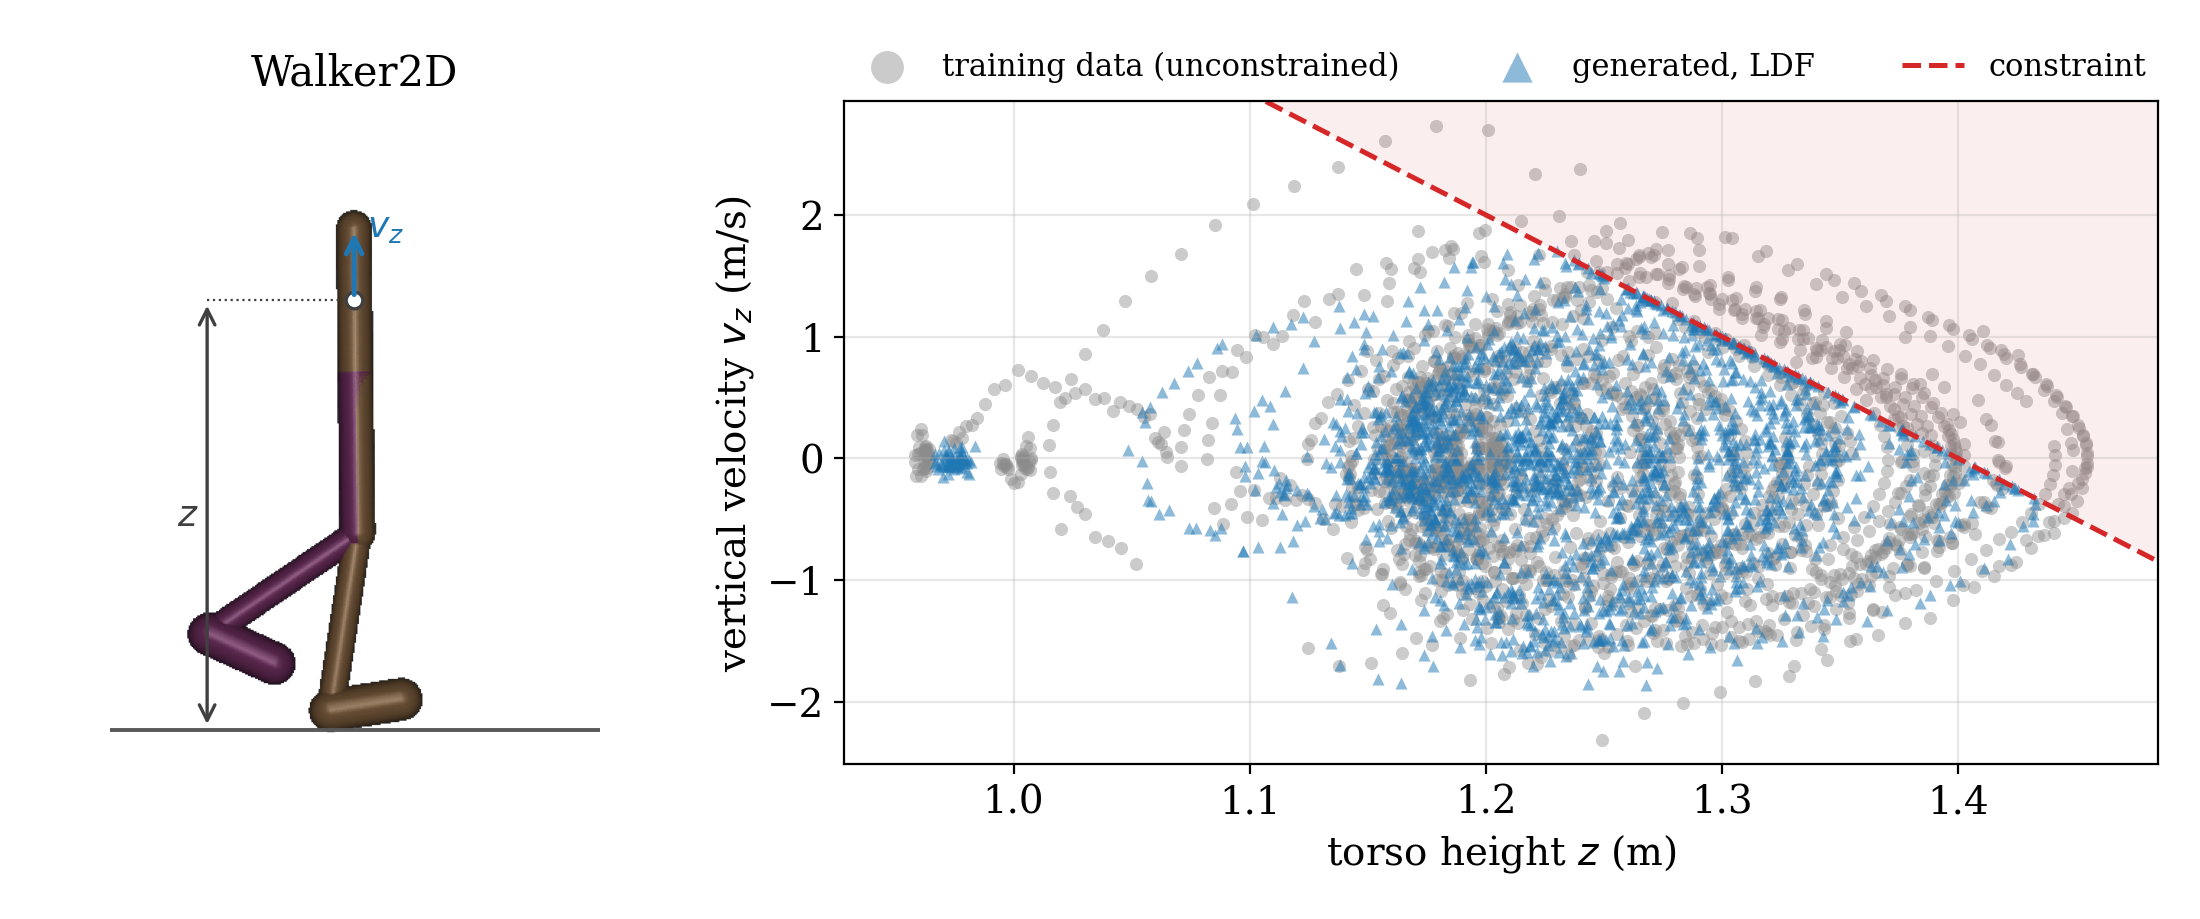
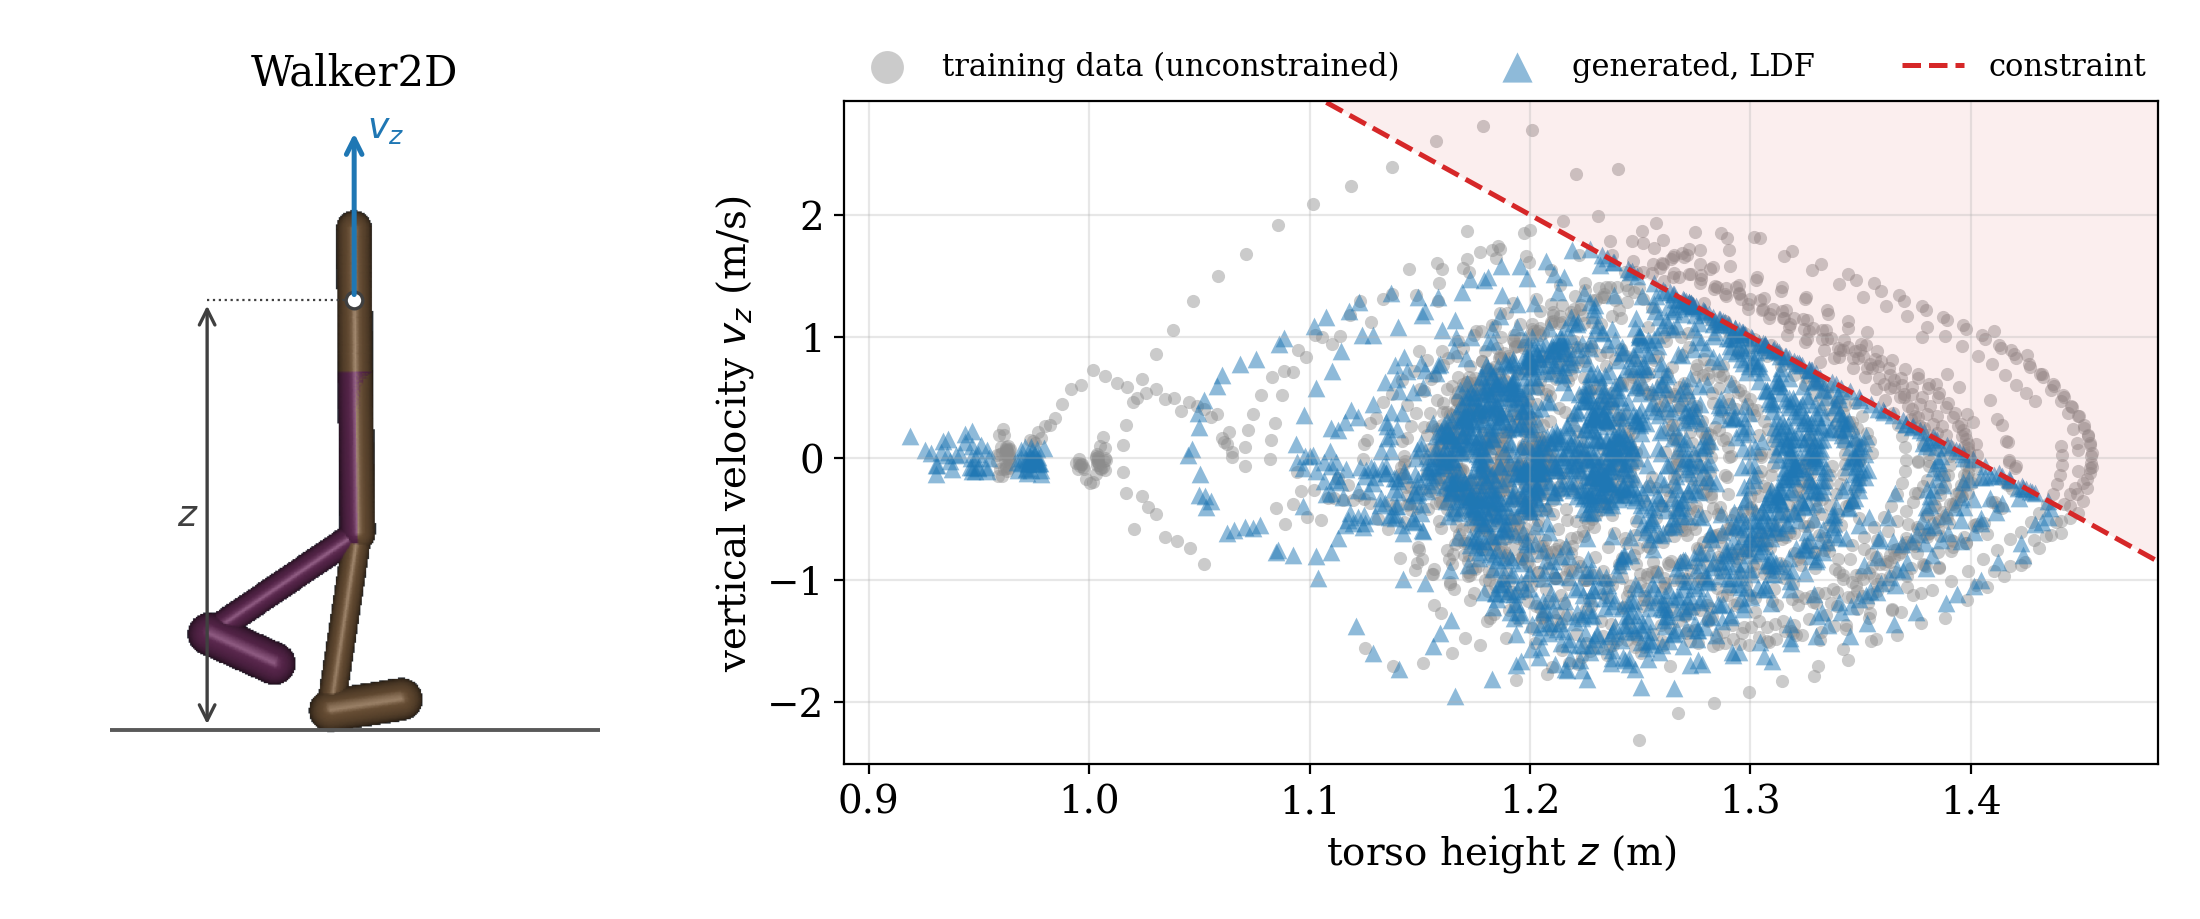
Match Table 1 and figure formatting to the arXiv paper
- Export plots/table1.tex as the paper's complete table* float
  (resizebox, caption, vspace, label) so it pastes into the source.
  Header citations are commented out as in the paper, and DPS now
  cites the paper's bib key chung2023dps. The caption adds a line for
  the "failed" cells.
- Restore the standalone locomotion figure style used in the paper:
  generated markers at 2.9x point size with compact legend handles,
  and a v_z arrow at 0.26 of the panel height. The overview figure
  keeps the smaller markers, as in the paper.
- Regenerate all paper figures from the current checkpoints.
- Test that the exported float keeps the paper's layout.

Claude-Session: https://claude.ai/code/session_01X2HQFQgsToYvSRicP9o1vh

diff --git a/cfm/sweep.py b/cfm/sweep.py
@@ -349,17 +349,19 @@ def render_table(records, fmt: str = "markdown") -> str:
     return "\n".join(lines)
 
 
-# (row name, header) for the LaTeX columns. Unlisted rows are appended.
+# (variant, header, citation key) for the LaTeX columns; unlisted variants
+# are appended. The paper keeps the citations as
+# LaTeX comments so the headers stay short.
 LATEX_COLUMNS = [
-    ("penalty", "Penalty only"),
-    ("time_varying_penalty", "Time-varying penalty"),
-    ("cbf", r"CBF~\cite{safeflow2025}"),
-    ("pcfm", r"PCFM~\cite{utkarsh2025pcfm}"),
-    ("pigdm", r"$\Pi$GDM~\cite{pokle2024training}"),
-    ("opc", r"OPC~\cite{peng2024improving}"),
-    ("dps", r"DPS~\cite{chung2023diffusion}"),
-    ("ldf", "LDF (no proj.)"),
-    ("ldf_projected", "LDF + proj."),
+    ("penalty", "Penalty only", None),
+    ("time_varying_penalty", "Time-varying penalty", None),
+    ("cbf", "CBF", "safeflow2025"),
+    ("pcfm", "PCFM", "utkarsh2025pcfm"),
+    ("pigdm", r"$\Pi$GDM", "pokle2024training"),
+    ("opc", "OPC", "peng2024improving"),
+    ("dps", "DPS", "chung2023dps"),
+    ("ldf", "LDF (no proj.)", None),
+    ("ldf_projected", "LDF + proj.", None),
 ]
 
 # Bold times are within this factor of the fastest in their row; bold
@@ -413,11 +415,11 @@ def render_latex_table(records) -> str:
         cells[row][column] = r
 
     columns = list(LATEX_COLUMNS)
-    known = {name for name, _ in columns}
+    known = {name for name, _, _ in columns}
     for per_row in cells.values():
         for name, r in per_row.items():
             if name not in known:
-                columns.append((name, r["method_label"]))
+                columns.append((name, r["method_label"], None))
                 known.add(name)
 
     order = list(problems.all_problems())
@@ -432,9 +434,13 @@ def render_latex_table(records) -> str:
                 "no Steps column, so keep one resolution per scenario"
             )
 
-    groups = "\n".join(
-        f"& \\multicolumn{{2}}{{c}}{{{header}}}" for _, header in columns
-    )
+    def group(header, cite):
+        if cite is None:
+            return f"& \\multicolumn{{2}}{{c}}{{{header}}}"
+        return (f"& \\multicolumn{{2}}{{c}}{{{header}\n"
+                f"% ~\\citep{{{cite}}}\n}}")
+
+    groups = "\n".join(group(header, cite) for _, header, cite in columns)
     rules = "".join(
         f"\\cmidrule(lr){{{2 + 2 * i}-{3 + 2 * i}}}"
         for i in range(len(columns))
@@ -457,7 +463,7 @@ def render_latex_table(records) -> str:
              if math.isfinite(r["mean_violation"])), default=math.inf,
         )
         out = [row[2]]
-        for name, _ in columns:
+        for name, _, _ in columns:
             r = per_row.get(name)
             if r is None:
                 out += ["---", "---"]
@@ -473,6 +479,47 @@ def render_latex_table(records) -> str:
 
     lines += [r"\bottomrule", r"\end{tabular}"]
     return "\n".join(lines)
+
+
+# The paper's Table 1 caption, extended for the added baselines.
+LATEX_CAPTION = "\n".join([
+    "Mean per-sample generation time (ms) and constraint violation across "
+    "{num_samples} samples.",
+    r"Violation is $\norm{{g(x_1)}}$ for equality-constrained problems "
+    "(top) and",
+    r"$\norm{{\relu(h(x_1))}}$ for inequality-constrained problems (bottom).",
+    r"Bold times are within {time_percent}\% of the lowest time in that "
+    r"row; bold violations are below $10^{{{threshold_exponent}}}$",
+    "(near machine precision for single-precision float).",
+    r"$^\dagger$At least one NaN error produced during generation; "
+    "average shown is across non-NaN samples.",
+    r"\textit{{failed}}: every sample produced a NaN error; such methods "
+    "are excluded from the bold-time comparison.",
+])
+
+
+def render_latex_float(records, num_samples: int) -> str:
+    r"""Wrap :func:`render_latex_table` in the paper's ``table*`` float.
+
+    The output pastes into the paper as is; it uses the paper's ``\sci``,
+    ``\scib``, ``\norm`` and ``\relu`` macros and ``booktabs``.
+    """
+    caption = LATEX_CAPTION.format(
+        num_samples=num_samples,
+        time_percent=round(100 * (LATEX_TIME_FACTOR - 1)),
+        threshold_exponent=round(math.log10(LATEX_VIOLATION_THRESHOLD)),
+    )
+    return "\n".join([
+        r"\begin{table*}[t]",
+        r"\centering",
+        r"\resizebox{\textwidth}{!}{%",
+        render_latex_table(records),
+        "}",
+        rf"\caption{{{caption}}}",
+        r"\vspace{-1.05em}",
+        r"\label{tab:generation_times}",
+        r"\end{table*}",
+    ])
 
 
 def _ran_the_baseline_scenario(record, want) -> bool:

diff --git a/plots.py b/plots.py
@@ -1040,10 +1040,19 @@ def plot_obstacle_comparison(
 POSE_PIXELS = (340, 460)
 POSE_EXTENT = 1.85
 POSE_CAMERA_Z = 0.83
+# v_z arrow length in the standalone figures, as a fraction of panel height.
+POSE_VZ_LENGTH = 0.26
 
 # Distinct markers so the clouds survive greyscale printing.
 TRAINING_STYLE = dict(marker="o", c="0.55", alpha=0.45, lw=0)
 GENERATED_STYLE = dict(marker="^", c="C0", alpha=0.5, lw=0)
+# Marker areas relative to ``point_size`` in the locomotion phase panels.
+# The standalone figures draw generated samples larger; their legends keep
+# the compact handles.
+TRAINING_SIZE = 1.6
+GENERATED_SIZE = 1.35
+STANDALONE_GENERATED_SIZE = 2.9
+LEGEND_MARKERSCALE = 2.5
 
 
 def _locomotion_samples(env, height_limit, phi, num_samples, seed, dt):
@@ -1101,7 +1110,7 @@ def _pose_frame(renderer, spec, reference, num_windows=64):
 
 
 def _draw_pose_panel(ax, renderer, frame, torso_z, label, fontsize=13,
-                     vz_length=0.11):
+                     vz_length=None):
     """The robot with ``z`` and ``v_z`` marked on it.
 
     ``vz_length`` is the ``v_z`` arrow length as a fraction of panel height.
@@ -1129,6 +1138,8 @@ def _draw_pose_panel(ax, renderer, frame, torso_z, label, fontsize=13,
             color="0.25", lw=0.8, ls=":")
     ax.plot(torso_col, torso_row, "o", ms=6, mfc="white", mec="0.25",
             mew=1.2, zorder=3)
+    if vz_length is None:
+        vz_length = POSE_VZ_LENGTH
     tip = torso_row - vz_length * renderer.height
     ax.annotate(
         "", xy=(torso_col, tip), xytext=(torso_col, torso_row),
@@ -1145,7 +1156,8 @@ def _draw_pose_panel(ax, renderer, frame, torso_z, label, fontsize=13,
         ax.set_title(label, fontsize=15)
 
 
-def _draw_phase_panel(ax, spec, data, point_size, legend=True):
+def _draw_phase_panel(ax, spec, data, point_size, legend=True,
+                      generated_size=GENERATED_SIZE):
     """The (z, v_z) cloud, training behind and constrained samples on top."""
     from problems.locomotion import PLOT_WINDOWS
 
@@ -1157,10 +1169,10 @@ def _draw_phase_panel(ax, spec, data, point_size, legend=True):
     z_gen = generated[..., spec.z_index].ravel()
     vz_gen = generated[..., spec.vz_index].ravel()
 
-    ax.scatter(z_ref, vz_ref, s=point_size * 1.6,
+    ax.scatter(z_ref, vz_ref, s=point_size * TRAINING_SIZE,
                label="training data (unconstrained)", **TRAINING_STYLE)
-    ax.scatter(z_gen, vz_gen, s=point_size * 1.35, label="generated, LDF",
-               **GENERATED_STYLE)
+    ax.scatter(z_gen, vz_gen, s=point_size * generated_size,
+               label="generated, LDF", **GENERATED_STYLE)
 
     ax.set_xlim(
         min(z_ref.min(), z_gen.min()) - 0.03,
@@ -1184,11 +1196,14 @@ def _draw_phase_panel(ax, spec, data, point_size, legend=True):
     ax.grid(alpha=0.3)
     if not legend:
         return
-    ax.legend(
+    handles = ax.legend(
         loc="lower left", bbox_to_anchor=(0.0, 1.01, 1.0, 0.1), mode="expand",
-        ncols=3, fontsize=11, frameon=False, markerscale=2.5,
+        ncols=3, fontsize=11, frameon=False, markerscale=LEGEND_MARKERSCALE,
         borderaxespad=0.0,
-    )
+    ).legend_handles
+    # Legend markers do not grow with the scatter markers.
+    for handle, size in zip(handles, (TRAINING_SIZE, GENERATED_SIZE)):
+        handle.set_sizes([point_size * size * LEGEND_MARKERSCALE ** 2])
 
 
 def plot_locomotion_phase(
@@ -1234,7 +1249,8 @@ def plot_locomotion_phase(
             gridspec_kw={"width_ratios": (1.0, 2.1)},
         )
         _draw_pose_panel(axes[0], renderer, frame, torso_z, spec.label)
-        _draw_phase_panel(axes[1], spec, data, point_size)
+        _draw_phase_panel(axes[1], spec, data, point_size,
+                          generated_size=STANDALONE_GENERATED_SIZE)
         fig.tight_layout()
         out = FIG_DIR / f"locomotion_{env}.png"
         fig.savefig(out, dpi=200)

diff --git a/plots/table1.tex b/plots/table1.tex
@@ -1,13 +1,26 @@
 % Local timings; see plots/data/table1.json for provenance.
+\begin{table*}[t]
+\centering
+\resizebox{\textwidth}{!}{%
 \begin{tabular}{lcccccccccccccccccc}
 \toprule
 & \multicolumn{2}{c}{Penalty only}
 & \multicolumn{2}{c}{Time-varying penalty}
-& \multicolumn{2}{c}{CBF~\cite{safeflow2025}}
-& \multicolumn{2}{c}{PCFM~\cite{utkarsh2025pcfm}}
-& \multicolumn{2}{c}{$\Pi$GDM~\cite{pokle2024training}}
-& \multicolumn{2}{c}{OPC~\cite{peng2024improving}}
-& \multicolumn{2}{c}{DPS~\cite{chung2023diffusion}}
+& \multicolumn{2}{c}{CBF
+% ~\citep{safeflow2025}
+}
+& \multicolumn{2}{c}{PCFM
+% ~\citep{utkarsh2025pcfm}
+}
+& \multicolumn{2}{c}{$\Pi$GDM
+% ~\citep{pokle2024training}
+}
+& \multicolumn{2}{c}{OPC
+% ~\citep{peng2024improving}
+}
+& \multicolumn{2}{c}{DPS
+% ~\citep{chung2023dps}
+}
 & \multicolumn{2}{c}{LDF (no proj.)}
 & \multicolumn{2}{c}{LDF + proj.} \\
 \cmidrule(lr){2-3}\cmidrule(lr){4-5}\cmidrule(lr){6-7}\cmidrule(lr){8-9}\cmidrule(lr){10-11}\cmidrule(lr){12-13}\cmidrule(lr){14-15}\cmidrule(lr){16-17}\cmidrule(lr){18-19}
@@ -23,3 +36,14 @@ Walker2D & \textbf{82.3} & \sci{7.3}{-3} & \textbf{80.7} & \sci{9.1}{-2} & 6495.
 Hopper & \textbf{81.3} & \sci{5.5}{-3} & \textbf{79.6} & \sci{2.1}{-1} & 3648.5 & \textbf{0} & --- & --- & --- & --- & --- & --- & --- & --- & \textbf{81.4} & \sci{7.1}{-4} & \textbf{81.4} & \scib{1.2}{-8} \\
 \bottomrule
 \end{tabular}
+}
+\caption{Mean per-sample generation time (ms) and constraint violation across 20 samples.
+Violation is $\norm{g(x_1)}$ for equality-constrained problems (top) and
+$\norm{\relu(h(x_1))}$ for inequality-constrained problems (bottom).
+Bold times are within 20\% of the lowest time in that row; bold violations are below $10^{-6}$
+(near machine precision for single-precision float).
+$^\dagger$At least one NaN error produced during generation; average shown is across non-NaN samples.
+\textit{failed}: every sample produced a NaN error; such methods are excluded from the bold-time comparison.}
+\vspace{-1.05em}
+\label{tab:generation_times}
+\end{table*}

diff --git a/tests/test_sweep_config.py b/tests/test_sweep_config.py
@@ -1,6 +1,7 @@
 """Sweep config expansion, baseline comparison, and LaTeX table rendering."""
 
 import json
+import re
 
 import pytest
 
@@ -268,3 +269,23 @@ def test_latex_table_refuses_two_results_for_one_cell():
     records = [_table_record("ldf", 1.0, 1e-2), _table_record("ldf", 2.0, 1e-2)]
     with pytest.raises(ValueError, match="stale"):
         sweep.render_latex_table(records)
+
+
+def test_latex_float_matches_the_paper_layout():
+    """The export pastes into the paper: same float, macros, and caption."""
+    records = [_table_record("ldf", 7.7, 2.6e-3),
+               _table_record("pcfm", 29.6, 4.5e-8)]
+    text = sweep.render_latex_float(records, num_samples=20)
+    lines = text.splitlines()
+    assert lines[:3] == [r"\begin{table*}[t]", r"\centering",
+                         r"\resizebox{\textwidth}{!}{%"]
+    assert lines[-3:] == [r"\vspace{-1.05em}",
+                          r"\label{tab:generation_times}", r"\end{table*}"]
+    assert "across 20 samples" in text
+    assert r"within 20\% of the lowest" in text
+    assert r"below $10^{-6}$" in text
+    # Citations are commented out, as in the paper's header row.
+    assert "& \\multicolumn{2}{c}{PCFM\n% ~\\citep{utkarsh2025pcfm}\n}" in text
+    assert r"\cite{" not in text.replace(r"% ~\citep{", "")
+    uncommented = re.sub(r"(?<!\\)%.*", "", text)
+    assert uncommented.count("{") == uncommented.count("}")

diff --git a/experiments/table1.py b/experiments/table1.py
@@ -64,9 +64,12 @@ def export_table(*, run=False, available_only=False, force=False):
     note = (f"% INCOMPLETE: {len(pending)} cases pending; "
             "see plots/data/table1.json.\n"
             if pending else "")
+    num_samples = sorted({r["num_samples"] for r in records})
+    if len(num_samples) != 1:
+        raise ValueError(f"mixed sample counts in Table 1: {num_samples}")
     Path("plots/table1.tex").write_text(
         note + "% Local timings; see plots/data/table1.json for provenance.\n"
-        + sweep.render_latex_table(records) + "\n"
+        + sweep.render_latex_float(records, num_samples[0]) + "\n"
     )
     with Path("plots/table1.csv").open("w", newline="") as f:
         writer = csv.writer(f)

diff --git a/README.md b/README.md
@@ -283,6 +283,9 @@ PNG and vector PDF outputs are in `plots/figures/time_varying_penalty_*`.
 
 `uv run -m experiments.table1 --run` runs the configured cases and exports
 `plots/table1.tex`, `plots/table1.csv`, and `plots/data/table1.json`.
+`plots/table1.tex` is the paper's complete `table*` float (caption and
+label included) and uses the paper's `\sci`, `\scib`, `\norm`, and `\relu`
+macros, so it can replace the table in the paper source directly.
 Use `--available-only` to explicitly allow missing checkpoints, and
 `--force` to refresh timings. The checked-in export covers every case,
 timed on one RTX 5090 GPU; the device and checkpoint hash of each case are
